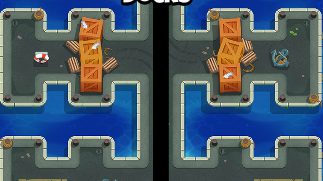
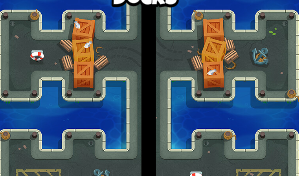
fixes and changes
new maps-window.json for window players, better screenshots and fixes in main.py

diff --git a/main.py b/main.py
@@ -1,3 +1,4 @@
+from numpy import true_divide
 import pyautogui
 import time
 from position_parser import Parser
@@ -7,7 +8,7 @@ time.sleep(3)
 
 game_counter = 0
 map = None
-finding_game = False
+finding_game = True #CHANGE BACK TO FALSE
 
 p = Parser()
 
@@ -17,7 +18,8 @@ while True:
         battle_button_coords = pyautogui.locateOnScreen('data/images/buttons/battle-button.png', confidence = 0.6)
         hero_button_coords = pyautogui.locateOnScreen('data/images/buttons/hero-selection-button.png', confidence = 0.6)
         tower_button_coords = pyautogui.locateOnScreen('data/images/buttons/battle-button.png', confidence = 0.6)
-        
+        tower_screen_detect = pyautogui.locateOnScreen('data/images/buttons/tower-screen.png', confidence = 0.6)
+
         # Clicks the "Battle" button in the main menu
         if battle_button_coords != None and not finding_game:
             pyautogui.click(battle_button_coords)
@@ -33,7 +35,7 @@ while True:
             time.sleep(2)
 
         # Clicks the "Battle" button in tower selection
-        elif tower_button_coords != None:
+        elif tower_screen_detect != None:
             map = map_finder.get_map()
 
             pyautogui.click(tower_button_coords)
@@ -42,9 +44,9 @@ while True:
             print("Playing on: " + map)
             time.sleep(2)
 
-        discard_chest_coords = pyautogui.locateOnScreen('data/images/buttons/discard-button.png', confidence = 0.6)
-        if discard_chest_coords != None:
-            pyautogui.click(discard_chest_coords)
+        back_button_coords = pyautogui.locateOnScreen('data/images/buttons/back-button.png', confidence = 0.6)
+        if back_button_coords != None:
+            pyautogui.click(back_button_coords)
             print("Discarding chest")
             time.sleep(2)
 
@@ -60,32 +62,35 @@ while True:
         while pyautogui.locateOnScreen('data/images/ingame/surrender-button.png', confidence = 0.7) != None:
 
             if is_right_side == None:
+
                 print(is_right_side)
+                while pyautogui.locateOnScreen('data/images/ingame/locked-bloon.png', confidence = 0.7) == None:
+                    time.sleep(1)
+
                 is_right_side = pyautogui.locateCenterOnScreen('data/images/ingame/locked-bloon.png', confidence = 0.5)[0] > 960
+
                 print(is_right_side)
                 offset = 0 if is_right_side else 800
                 tower_slot_x = 1790 if is_right_side else 130
                 print("Playing on the " + ("right" if is_right_side else "left") + " side")
                 time.sleep(1)
 
+            
             for pos in p.get_positions(map, 'right' if is_right_side else 'left'):
                 pyautogui.moveTo(tower_slot_x, 230)
+                time.sleep(0.2)
                 pyautogui.dragTo(pos[0], pos[1], 1.5, button='left')
-
-                if blue_bloon_coords != None:
-                    for _ in range(5):
-                        pyautogui.click(blue_bloon_coords)
-                        time.sleep(0.01)
-
-            purple_bloon_coords = pyautogui.locateOnScreen('data/images/ingame/purple-bloons.png', confidence = 0.8)
-            blue_bloon_coords = pyautogui.locateOnScreen('data/images/ingame/blue-bloons.png', confidence = 0.8)
+                
+            blue_bloon_coords = pyautogui.locateOnScreen('data/images/ingame/blue-bloon.png', confidence = 0.7)
+            purple_bloon_coords = pyautogui.locateOnScreen('data/images/ingame/purple-bloons.png', confidence = 0.7)
             
+
             if purple_bloon_coords != None:
 
                 print("Round 11 - Attempting to rush with purples")
 
                 # Activate Bloon boost
-                bloon_boost_coords = pyautogui.locateOnScreen('data/images/ingame/bloon-boost.png', confidence = 0.8)
+                bloon_boost_coords = pyautogui.locateOnScreen('data/images/ingame/bloon-boost.png', confidence = 0.7)
                 pyautogui.click(bloon_boost_coords)
                 time.sleep(0.4)
 

diff --git a/position_parser.py b/position_parser.py
@@ -5,7 +5,7 @@ class Parser:
     cached_positions = {}
 
     def __init__(self):
-        with open('data/maps.json') as f:
+        with open('data/maps-window.json') as f:
             self.data = json.load(f)
 
     def get_positions(self, map, side):

diff --git a/util/position_finder.py b/util/position_finder.py
@@ -8,4 +8,5 @@ while True:
         
         print("\"" + str(round(pos[0] / 10) * 10) + " " + str(round(pos[1] / 10) * 10) + "\",")
         time.sleep(0.15)
+# done: mayan, 
  
